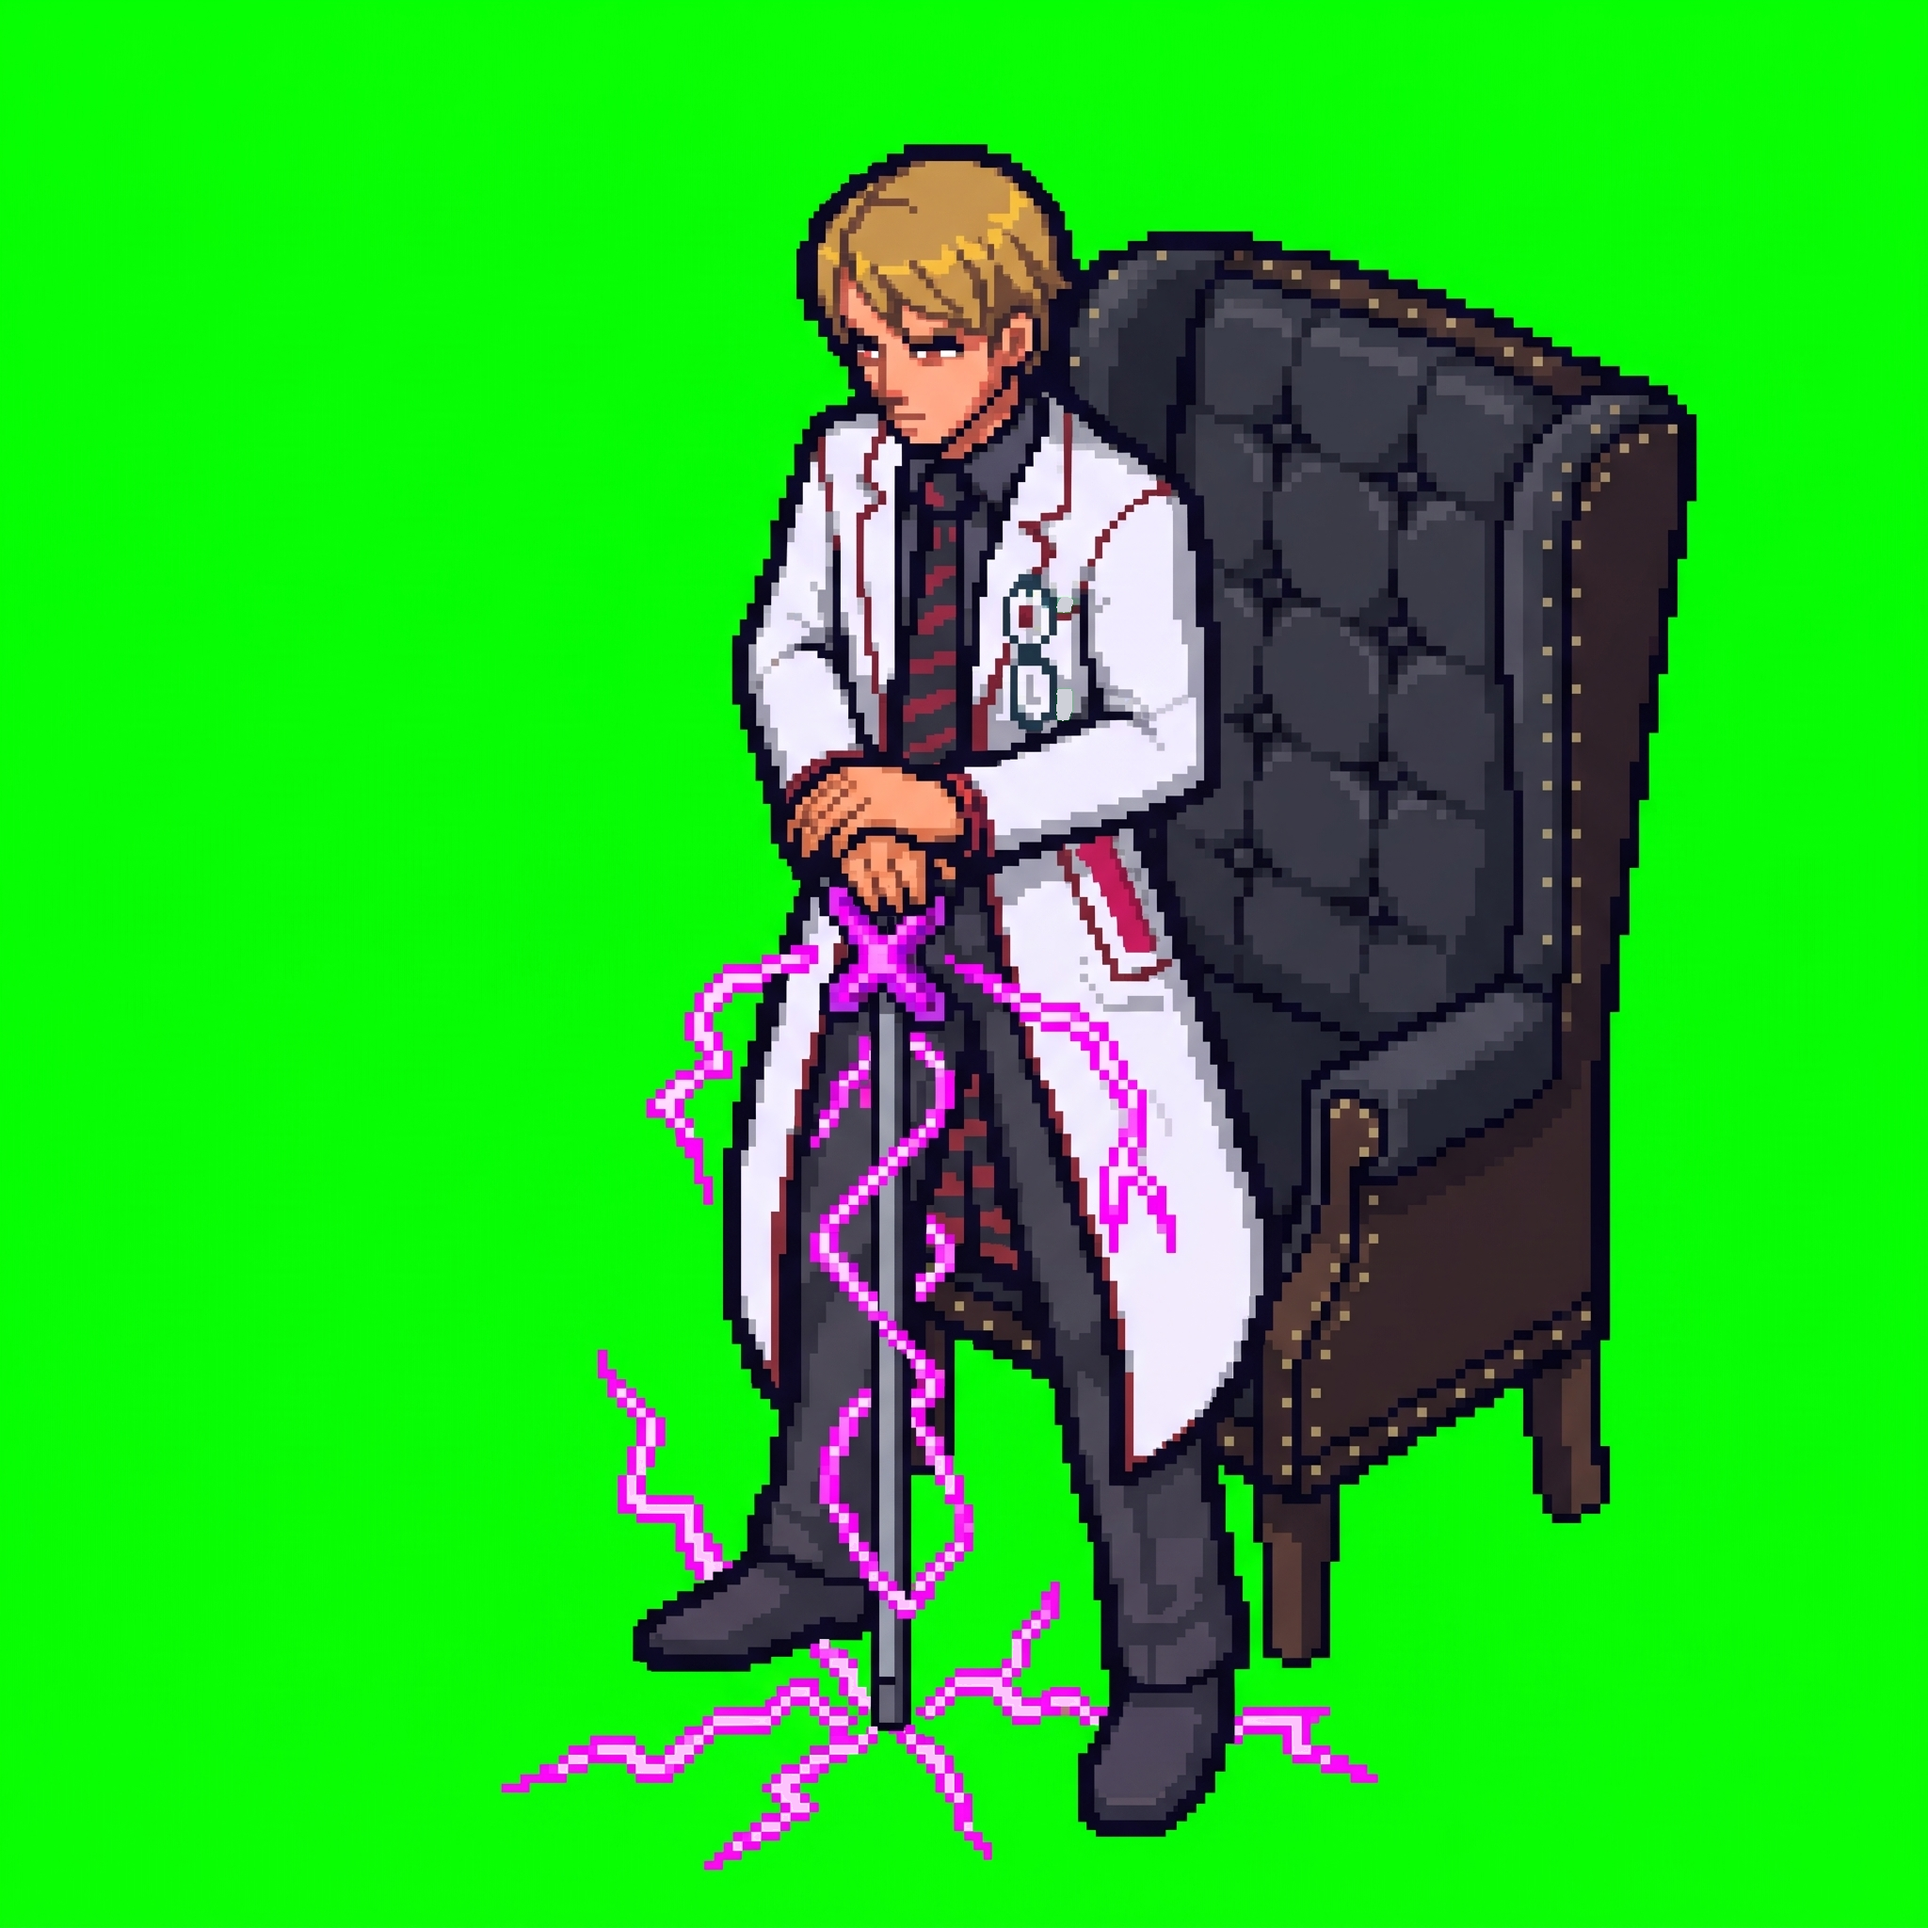
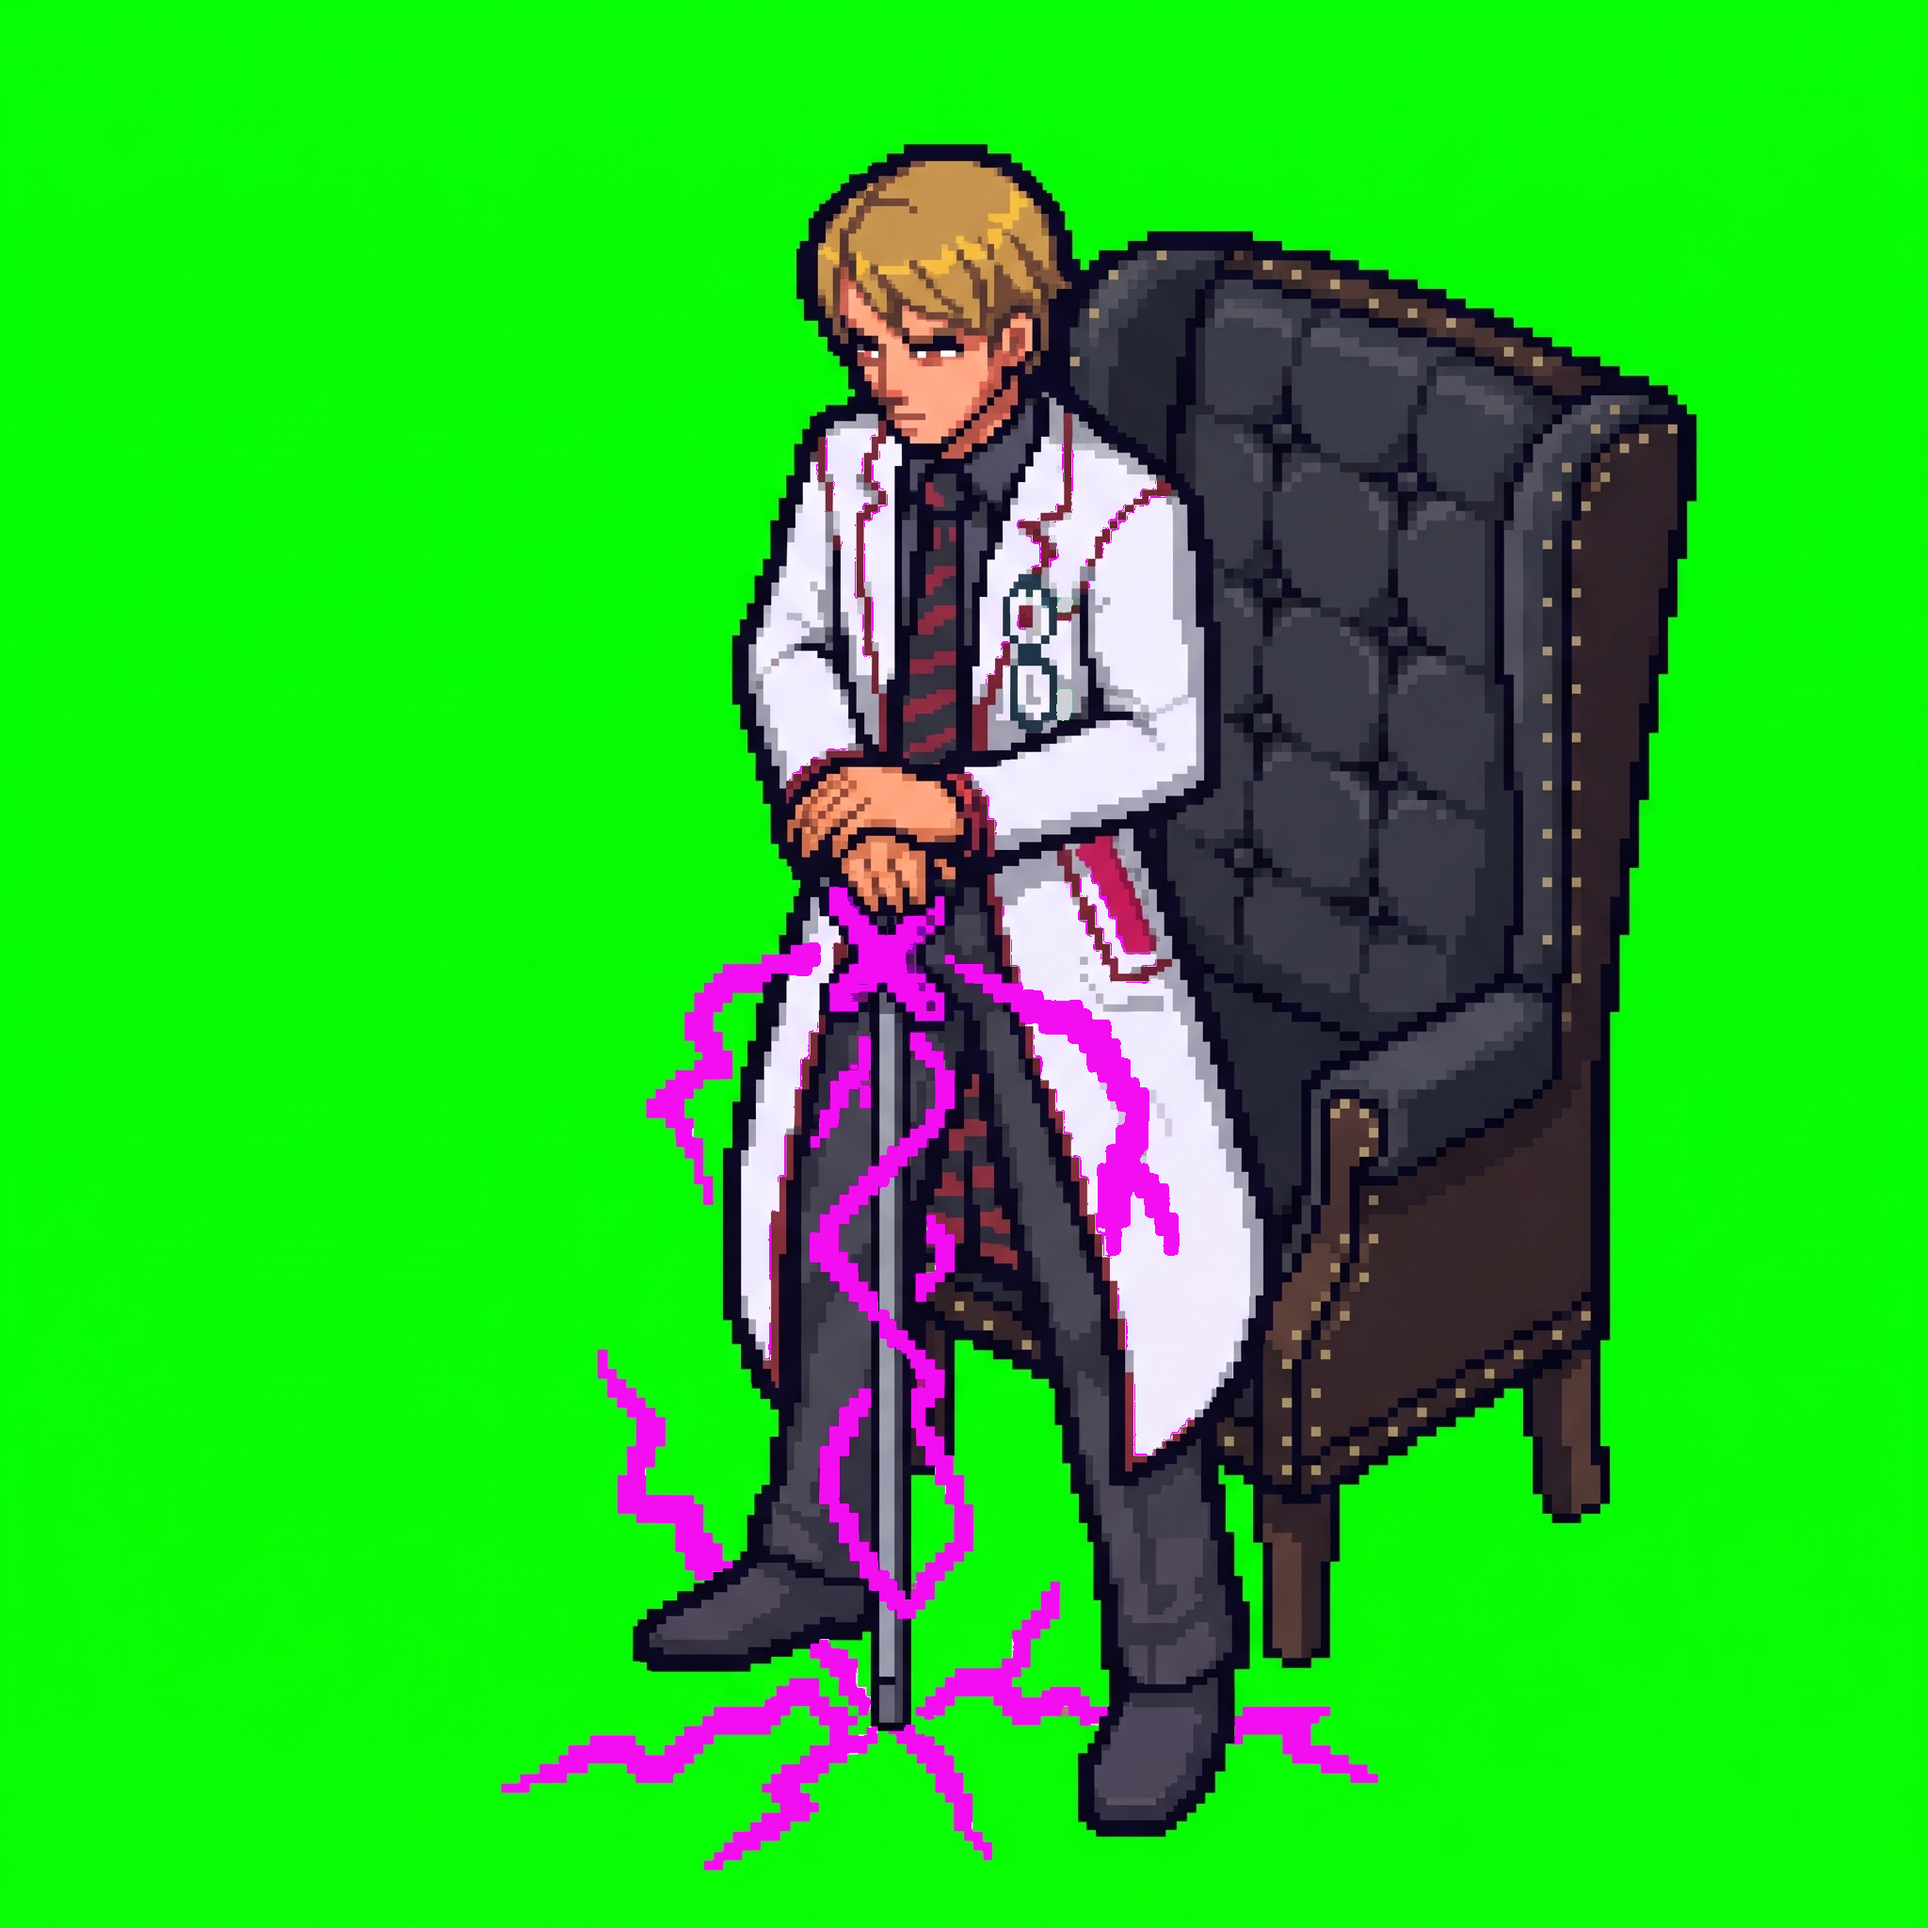
QSB's Final: solid magenta electricity at game size

diff --git a/packages/core/src/palette.bosses.ts b/packages/core/src/palette.bosses.ts
@@ -101,7 +101,6 @@ export const bossRamps: Record<string, readonly Rgb[]> = {
     [0xaa, 0xa9, 0xb8],
     [0xec, 0xa3, 0xf9],
     [0xf2, 0xba, 0x8e],
-    [0xfd, 0xc2, 0xfd],
     [0xf3, 0xf1, 0xf9],
   ],
 };
